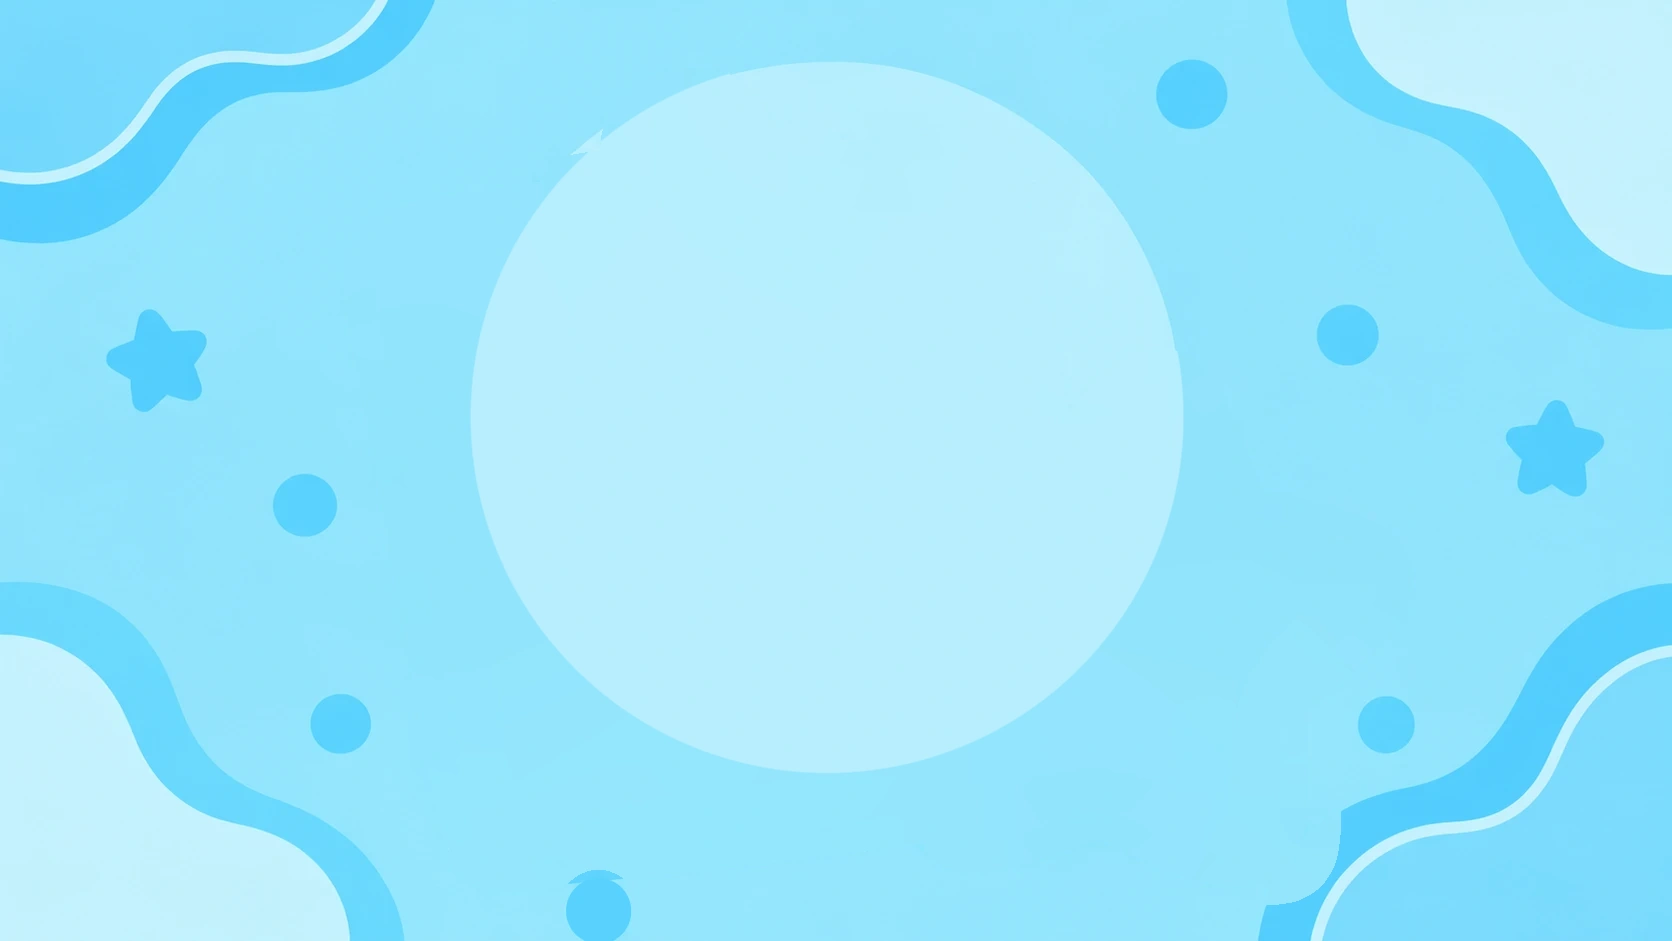
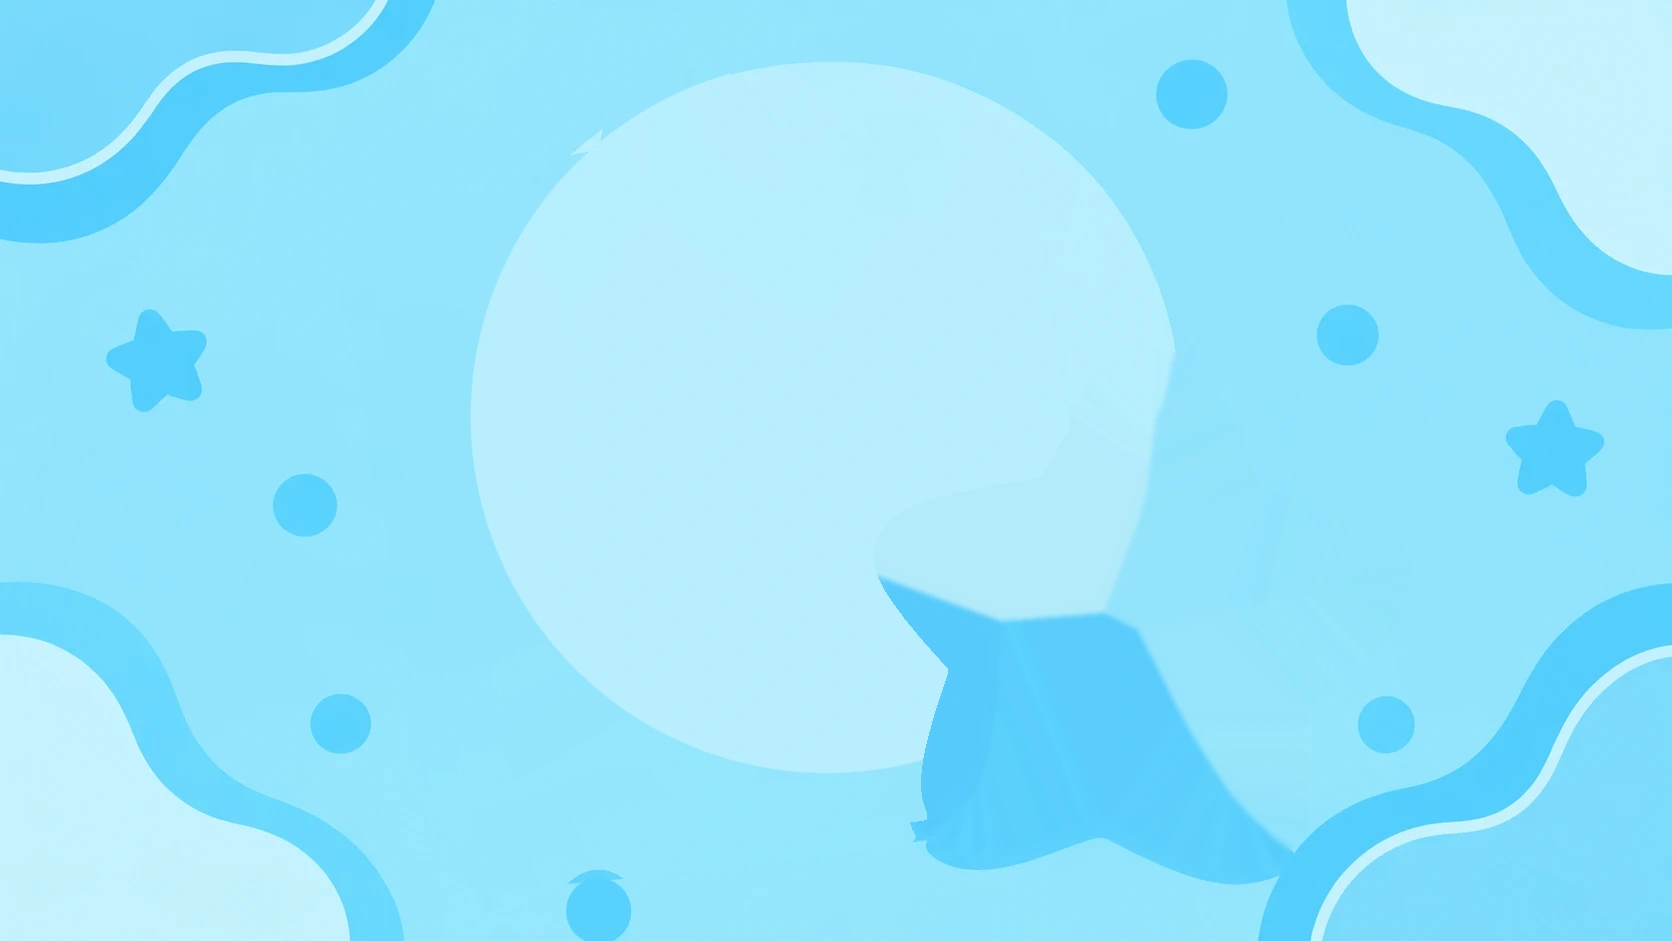
Nhiệm vụ: bỏ viền xanh mỏng dưới ngôi sao, giữ nền như ảnh gốc (#279)
* Nhiệm vụ: bỏ lớp bóng đổ dưới chân ngôi sao (vệt xanh mờ), chân sao sạch

Claude-Session: https://claude.ai/code/session_01Xqfit1TE88fdJNq9wU4RBg

* Nhiệm vụ: khôi phục dải bóng xanh dưới chân ngôi sao như ảnh gốc, đưa vào nền cố định (liền sát viền, không bám theo sao)

Claude-Session: https://claude.ai/code/session_01Xqfit1TE88fdJNq9wU4RBg

---------

Changed region(s): [[0.5287, 0.3698, 0.8086, 0.9554]]

diff --git a/frontend/src/components/Layout/MissionTransition.jsx b/frontend/src/components/Layout/MissionTransition.jsx
@@ -14,7 +14,7 @@
 //  4. Lớp phủ chỉ mờ đi khi đã đủ MIN_MS VÀ trang đích báo sẵn sàng (sự kiện `btm:page-ready`) — có trần MAX_WAIT_MS
 //     để không bao giờ bị kẹt. Nội dung trang đích bay lên nhẹ lần lượt (html[data-arena-enter]), rồi lớp phủ được gỡ.
 // Hình minh hoạ nằm trong /public/mission/ (tách từ ảnh tham chiếu 1672×941): bg (nền, đã xoá bảng + sao + bóng đổ, vòng tròn sáng vẽ lại),
-// board (bảng đủ cả phần bị sao che, ba ô TRỐNG), shadow-board / shadow-star (bóng đổ), ok1 / ok2 (nền xanh lá của ô), ck1a, ck1b, ck2a, ck2b (hai nét dấu tích trắng),
+// board (bảng đủ cả phần bị sao che, ba ô TRỐNG), shadow-board (bóng đổ dưới bảng), ok1 / ok2 (nền xanh lá của ô), ck1a, ck1b, ck2a, ck2b (hai nét dấu tích trắng),
 // star. Toạ độ (x, y, w, h) nằm ở hằng số SPR (pixel ảnh gốc). Dấu tích hiện bằng clip-path quét theo hướng từng nét (keyframes `mi-ck…`).
 import { useEffect, useMemo, useRef, useState } from 'react';
 import { useNavigate } from 'react-router-dom';
@@ -44,7 +44,6 @@ const SPR = {
   'ok2': { x: 503, y: 466, w: 140, h: 129 },
   'ck2a': { x: 520, y: 517, w: 48, h: 54 },
   'ck2b': { x: 558, y: 486, w: 64, h: 85 },
-  'shadow-star': { x: 909, y: 804, w: 435, h: 104 },
   'star': { x: 871, y: 354, w: 537, h: 515 },
 };
 const at = (k) => ({ left: `${((SPR[k].x / FW) * 100).toFixed(3)}%`, top: `${((SPR[k].y / FH) * 100).toFixed(3)}%`, width: `${((SPR[k].w / FW) * 100).toFixed(3)}%` });
@@ -69,7 +68,6 @@ function Overlay({ lite, leaving }) {
             {img('ck2b', 'mi-ck mi-ck2b')}
           </div>
         </div>
-        {img('shadow-star', 'mi-shs')}
         <div className="mi-star">
           {img('star')}
         </div>

diff --git a/frontend/src/index.css b/frontend/src/index.css
@@ -1749,7 +1749,6 @@ html[data-arena-enter] main .page > *:nth-child(n+5) { animation-delay: 280ms; }
 .mi-board, .mi-star, .mi-pop { will-change: transform, opacity; }
 .mi-board { transform-origin: 46% 92%; animation: mi-board-in 500ms cubic-bezier(0.2, 0.8, 0.3, 1) both, mi-board-nhun 260ms ease-in-out 1350ms; }
 .mi-star { transform-origin: 74% 66%; animation: mi-star-pop 700ms cubic-bezier(0.3, 1.25, 0.5, 1) 1500ms both, mi-star-nhun 400ms ease-in-out 2200ms; }
-.mi-shs { animation: mi-shfade 350ms ease-out 1900ms both; }
 .mi-ok { animation-duration: 170ms; animation-timing-function: ease-out; animation-fill-mode: both; }
 .mi-ck { animation-timing-function: ease-out; animation-fill-mode: both; }
 .mi-lite .mi-board, .mi-lite .mi-star { animation: none; }
@@ -1767,7 +1766,6 @@ html[data-arena-enter] main .page > *:nth-child(n+5) { animation-delay: 280ms; }
   62% { opacity: 1; transform: translate(0.8cqw, -1cqw) scale(1.04) rotate(-5deg); }
   100% { opacity: 1; transform: translate(0, 0) scale(1) rotate(0deg); }
 }
-@keyframes mi-shfade { from { opacity: 0; } }
 @keyframes mi-star-nhun { 0%, 100% { transform: translateY(0) scale(1, 1); } 40% { transform: translateY(-1.8cqw) scale(0.99, 1.02); } }
 .mi-ok1 { animation-name: mi-ok1; animation-delay: 500ms; }
 @keyframes mi-ok1 { from { clip-path: circle(0% at 49.6% 49.4%); } to { clip-path: circle(85% at 49.6% 49.4%); } }
